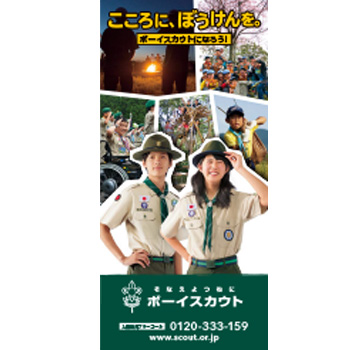
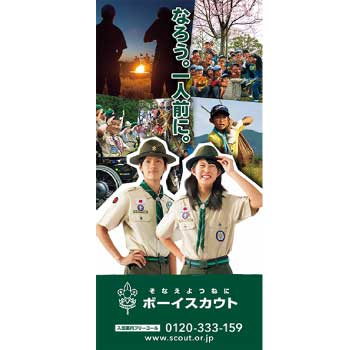
2018年版へ更新

diff --git a/content/poster/poster1.html b/content/poster/poster1.html
@@ -44,7 +44,7 @@
 				<p>日本連盟ポスター</p>
 		        	<img class="responsive-img" src="img/poster1.jpg">
 		      	<div>
-		      		<a href="https://drive.google.com/file/d/0B7Oe_GKTdkx6TVBGT0Q3Q0VpbVU/view?usp=sharing" class="btn download-button"><i class="material-icons left">file_download</i>ダウンロード</a><br />
+		      		<a href="https://drive.google.com/file/d/1muqneGl3J6TCcA2WyQrwfSQTp4W_ceao/view?usp=sharing" class="btn download-button"><i class="material-icons left">file_download</i>ダウンロード</a><br />
 		      		Google Driveにジャンプします。<br />
 		      		ダウンロードを行うことにより「<a href="../../about.html">各種使用に関して</a>」に同意したものとします。
 		      	</div>

diff --git a/content/booklet/3ori.html b/content/booklet/3ori.html
@@ -44,7 +44,7 @@
 				<p>リーフレット</p>
 		        	<img class="responsive-img" src="img/3ori.jpg">
 		      	<div>
-		      		<a href="https://drive.google.com/file/d/0B7Oe_GKTdkx6QmpsLXkxZ2FsMjg/view?usp=sharing" class="btn download-button"><i class="material-icons left">file_download</i>ダウンロード</a><br />
+		      		<a href="https://drive.google.com/file/d/1bpfWxAU8XBjWbTtDMFBouecUVzK8qtxi/view?usp=sharing" class="btn download-button"><i class="material-icons left">file_download</i>ダウンロード</a><br />
 		      		Google Driveにジャンプします。<br />
 		      		ダウンロードを行うことにより「<a href="../../about.html">各種使用に関して</a>」に同意したものとします。
 		      	</div>

diff --git a/content/booklet/dantai.html b/content/booklet/dantai.html
@@ -44,7 +44,7 @@
 				<p>団体案内</p>
 		        	<img class="responsive-img" src="img/dantai.jpg">
 		      	<div>
-		      		<a href="https://drive.google.com/file/d/0B7Oe_GKTdkx6T25qVzVvQXQxaGM/view?usp=sharing" class="btn download-button"><i class="material-icons left">file_download</i>ダウンロード</a><br />
+		      		<a href="https://drive.google.com/file/d/1lWf7_a2GJpqvKGBoF4LS_ZcYv42j7YeD/view?usp=sharing" class="btn download-button"><i class="material-icons left">file_download</i>ダウンロード</a><br />
 		      		Google Driveにジャンプします。<br />
 		      		ダウンロードを行うことにより「<a href="../../about.html">各種使用に関して</a>」に同意したものとします。
 		      	</div>

diff --git a/content/booklet/qa.html b/content/booklet/qa.html
@@ -44,7 +44,7 @@
 				<p>Q&A</p>
 		        	<img class="responsive-img" src="img/qa.jpg">
 		      	<div>
-		      		<a href="https://drive.google.com/file/d/0B7Oe_GKTdkx6RGJ0WmZKOUhhalE/view?usp=sharing" class="btn download-button"><i class="material-icons left">file_download</i>ダウンロード</a><br />
+		      		<a href="https://drive.google.com/file/d/1ekf9Yzi1LZQKdV31S8rdHE-gHgMo5_an/view?usp=sharing" class="btn download-button"><i class="material-icons left">file_download</i>ダウンロード</a><br />
 		      		Google Driveにジャンプします。<br />
 		      		ダウンロードを行うことにより「<a href="../../about.html">各種使用に関して</a>」に同意したものとします。
 		      	</div>
